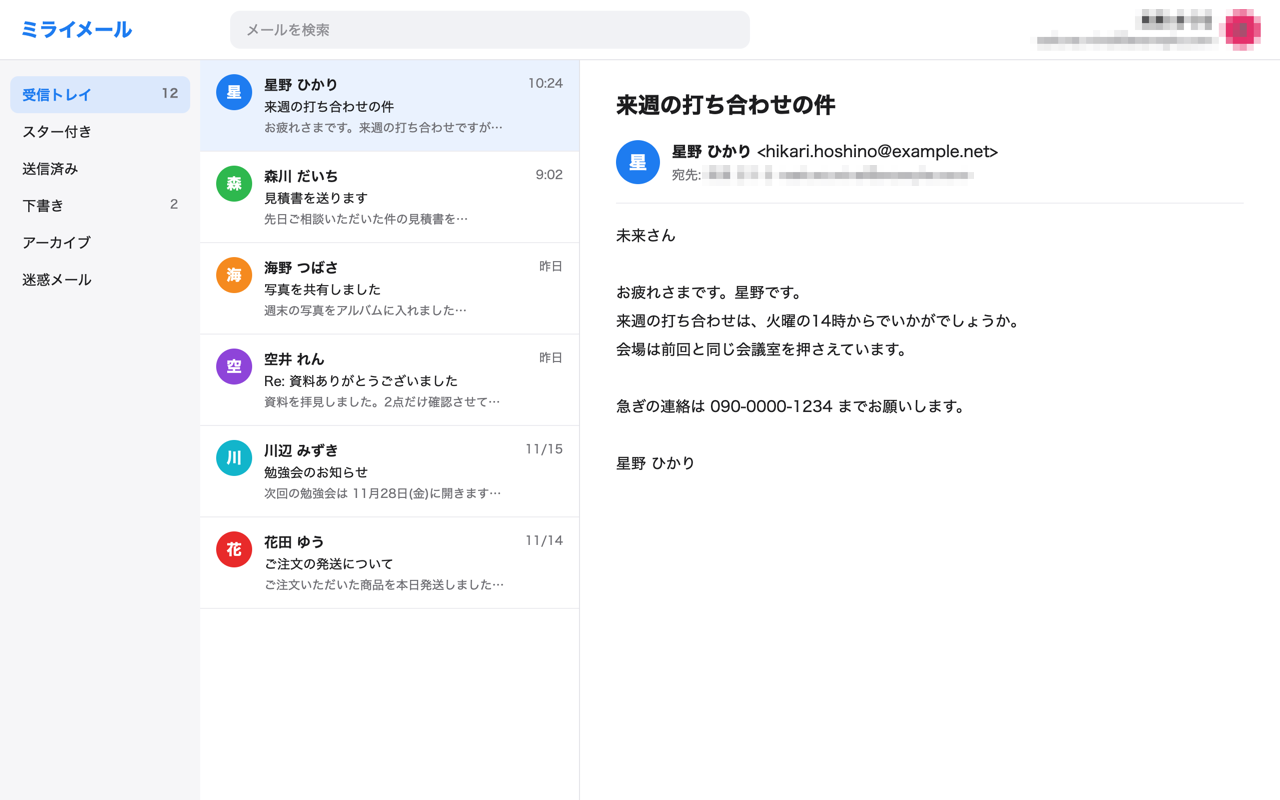
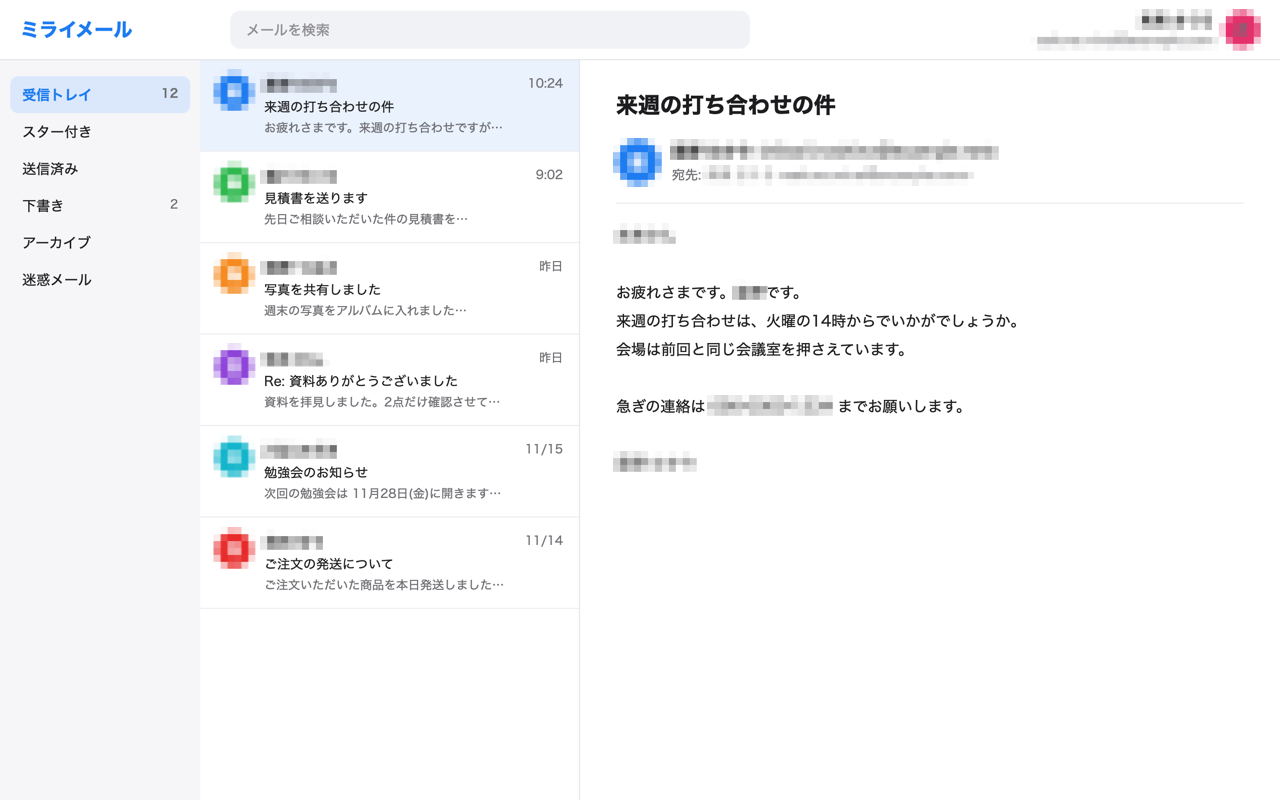
まとめて処理の例で、相手の名前とアドレスも隠す
自分のアドレスだけ隠して相手のものを出したままでは悪い手本になるため。
画像ごとに位置が違う本文の名前・電話番号・住所も隠し、注釈を画像ごとの JSON にした

diff --git a/docs/examples/mail-batch/README.md b/docs/examples/mail-batch/README.md
@@ -1,6 +1,6 @@
 # フォルダのスクショを、まとめて隠して縮める
 
-メール画面のスクショ3枚から、自分のメールアドレスを隠し、半分の大きさにして書き出した例。ブログや資料に何枚も貼るときを想定している。
+メール画面のスクショ3枚から、人の名前・メールアドレス・電話番号・住所を隠し、半分の大きさにして書き出した例。ブログや資料に何枚も貼るときを想定している。
 
 | | 元の画像(2560×1600) | 書き出した画像(1280×800) |
 |---|---|---|
@@ -11,27 +11,28 @@
 ## 頼んだこと
 
 ```text
-screenshots フォルダのスクショ全部で、自分のメールアドレス(sakura.mirai@example.com)を隠して、
-半分の大きさで out フォルダに書き出して
+screenshots フォルダのスクショ全部で、人の名前とメールアドレスを隠して。
+電話番号や住所も隠して。半分の大きさで out フォルダに書き出して
 ```
 
 ## AI がしたこと
 
-1. `get_image_info` で1枚目を見て、右上のアカウント欄にアドレスがあることを確かめる
-2. 3枚とも同じ画面なので、同じ位置に `obscure` を付け、`scale: 0.5` で `annotate_image` を3回呼ぶ
-3. 最初は `out` フォルダがなく、書き出せなかった。フォルダを作ってやり直す(`annotate_image` は書き出し先のフォルダを作らない)
-4. プレビューを見ると、開いているメールの「宛先」にも自分のアドレスが出ていた。宛先にも `obscure` を足して、3枚とも書き出し直す
+1. `get_image_info` で3枚を見て、どの画像でも同じ位置にあるものと、画像ごとに位置が違うものに分ける
+   - **同じ位置(16か所)**:右上の自分のアカウント、一覧の6通のアイコンと名前、差出人のアイコン、差出人の名前とアドレス、宛先の名前とアドレス
+   - **画像ごとに違う**:本文の宛名・名乗り・署名・電話番号・住所・事務所名(1枚目は4か所、2枚目は5か所、3枚目は3か所)
+2. 差出人のアドレスは画像ごとに長さが違う。いちばん長い 2枚目(`daichi@morikawa.example.org`)に合わせて、隠す幅を決める
+3. `annotate_image` に `scale: 0.5` を渡して、1枚ずつ書き出す
+4. 最初は `out` フォルダがなく、書き出せなかった。フォルダを作ってやり直した(`annotate_image` は書き出し先のフォルダを作らない)
+5. `preview_region` で本文を拡大し、隠し漏れがないことを確かめる
 
-モザイクの座標は元画像(2560×1600)のピクセルで書き、`scale` で縮めると線やモザイクも一緒に縮む。付けた注釈は [annotations.json](annotations.json) にある。
+モザイクの座標は元画像(2560×1600)のピクセルで書く。`scale` で縮めると、モザイクも一緒に縮む。付けた注釈は [annotations/](annotations/) に、画像ごとの JSON で置いている。
 
 ## CLI で同じものを作る
 
-同じ注釈を何枚にも付けるなら、AI に頼まずにシェルで回してもよい。
-
 ```bash
 mkdir -p out
-for f in screenshots/*.png; do
-  kakiire annotate "$f" -o "out/$(basename "$f")" -a annotations.json --scale 0.5
+for i in 1 2 3; do
+  kakiire annotate screenshots/mail-$i.png -o out/mail-$i.png -a annotations/mail-$i.json --scale 0.5
 done
 ```
 

diff --git a/docs/examples/README.md b/docs/examples/README.md
@@ -9,7 +9,7 @@ Claude Code などの AI エージェントに、Kakiire の MCP サーバーで
 | [設定画面に、操作の手順を番号で書き入れる](settings-steps/README.md) | 押す場所を赤枠で囲み、①②③と吹き出しで手順を示す | `rect`・`stamp`・`bubble` |
 | [必要な所だけ切り抜いて、新機能を知らせる](settings-crop/README.md) | サイドバーだけ切り抜き、「新機能」を丸と吹き出しで強調する | `crop`・`ellipse`・`bubble` |
 | [メール画面の個人情報を、ひと言で隠す](mail-privacy/README.md) | 名前・アドレス・電話番号・名前入りのアイコンの20か所を隠す | `obscure` |
-| [フォルダのスクショを、まとめて隠して縮める](mail-batch/README.md) | 3枚から自分のアドレスを隠し、半分の大きさで書き出す | `obscure`・`scale` |
+| [フォルダのスクショを、まとめて隠して縮める](mail-batch/README.md) | 3枚から名前・アドレス・電話番号・住所を隠し、半分の大きさで書き出す | `obscure`・`scale` |
 | [ニュースサイトのスクショに、まとめてモザイクをかける](news-mosaic/README.md) | 記事の写真・ロゴ・媒体のアイコン・地名など16か所を隠す | `obscure` |
 
 | 手順書 | 切り抜き |
